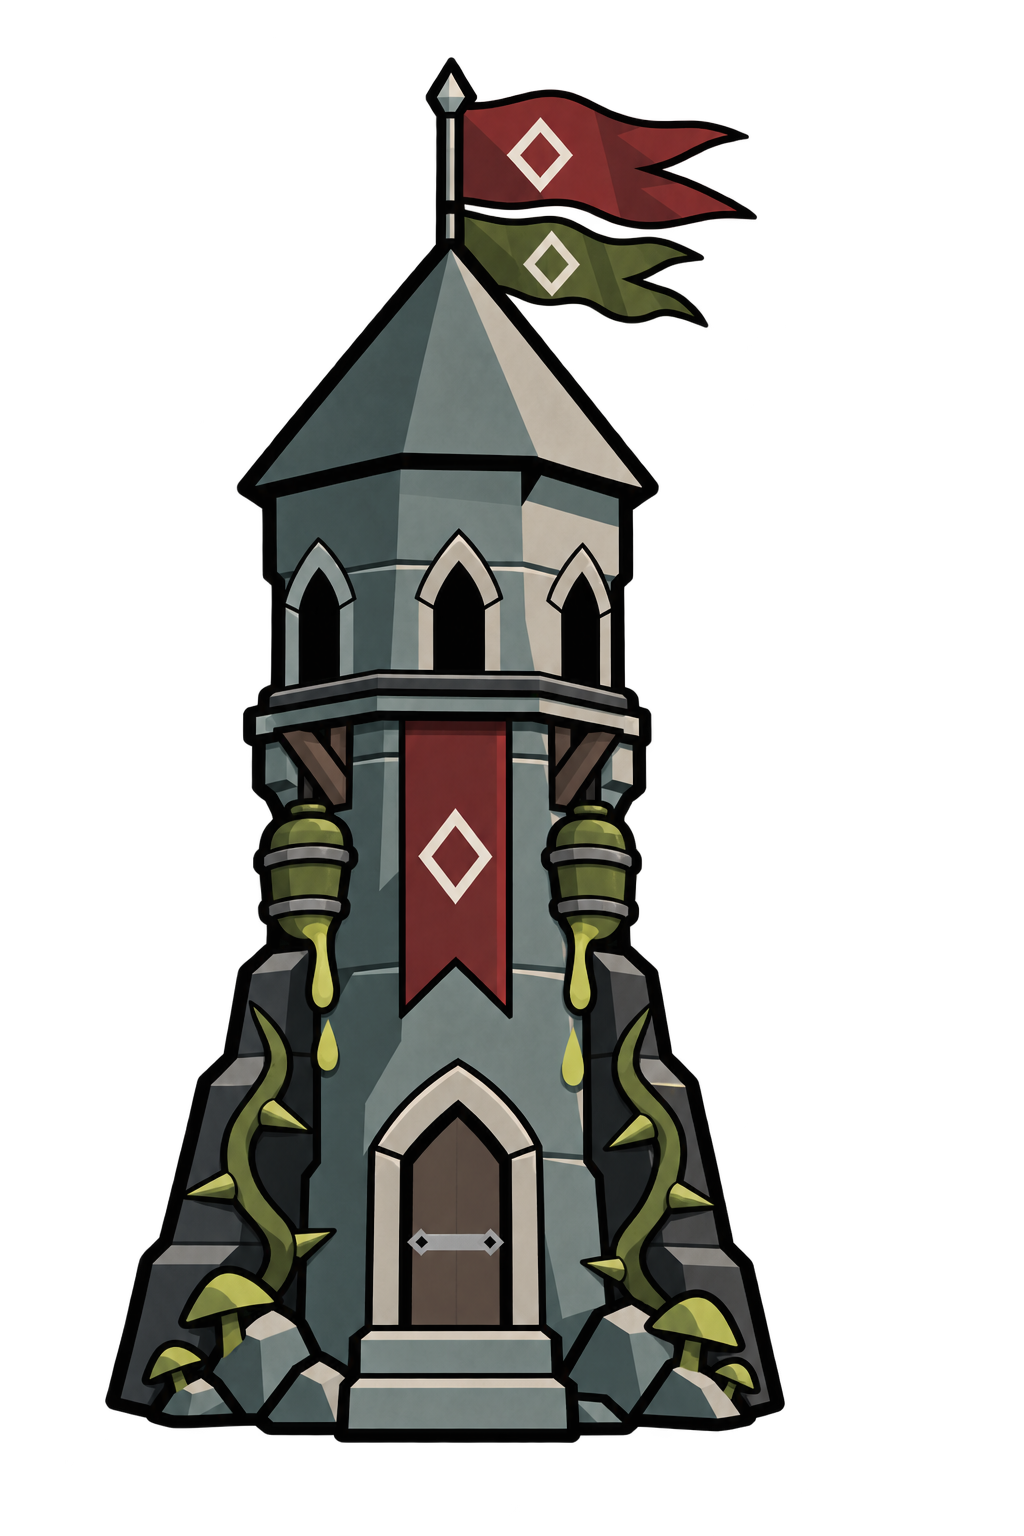
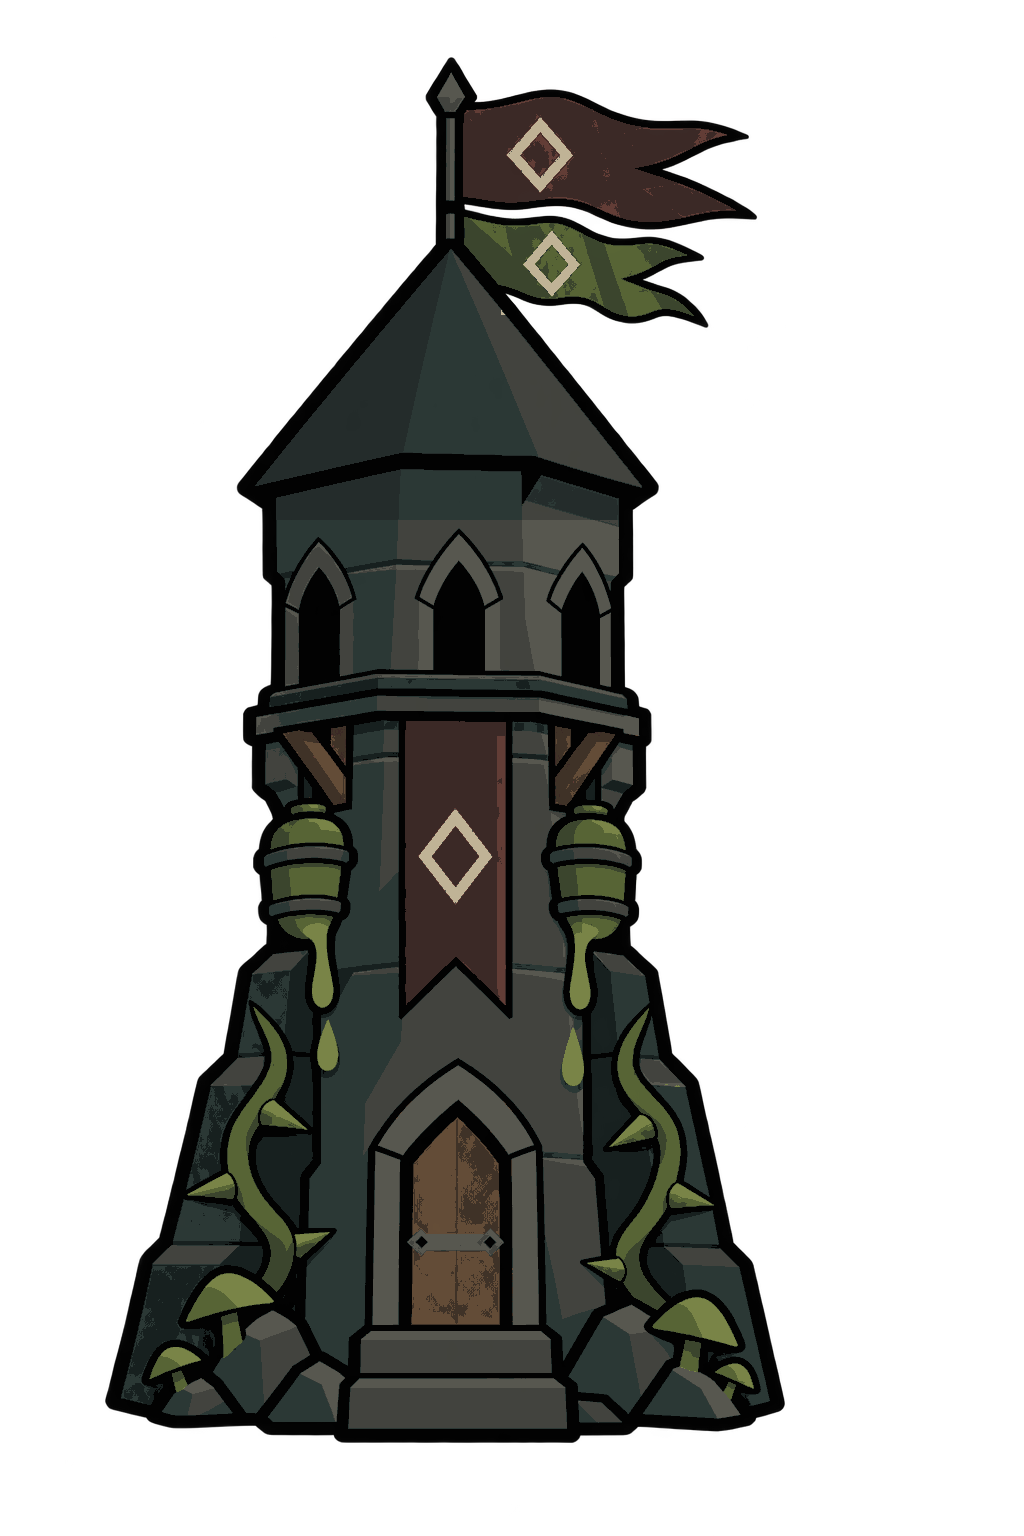
Unify Gloamwatch concepts with a verified dark 16-color palette

Changed region(s): [[0.125, 0.0312, 0.75, 0.9375]]

diff --git a/tools/gloamwatch_palette.py b/tools/gloamwatch_palette.py
@@ -1,0 +1,78 @@
+"""Apply the user-approved fixed palette without resampling tower geometry.
+
+Input must be the pre-palette cumulative concepts, not already processed files.
+Uses material masks to keep architectural highlights out of the bone role.
+"""
+import argparse
+import json
+from pathlib import Path
+
+import numpy as np
+from PIL import Image
+
+HEX = ['000000', '151E1D', '222A29', '293633', '41423C', '56564E',
+       '3D3025', '624B35', '392724', '613B34', 'BFB295', '435862',
+       '758F9E', '39442B', '566333', '788346']
+PALETTE = np.array([[int(h[i:i+2], 16) for i in (0, 2, 4)] for h in HEX], dtype=np.uint8)
+NAMES = ['level-1', 'level-2', 'level-3', 'tier-4-frost', 'tier-4-poison']
+
+
+def convert(source, destination):
+    report = {}
+    union = set()
+    destination.mkdir(parents=True, exist_ok=True)
+    for name in NAMES:
+        src = np.array(Image.open(source / f'{name}.png').convert('RGBA'))
+        rgb = src[..., :3].astype(float)
+        r, g, b = rgb.transpose(2, 0, 1)
+        value = rgb.max(axis=2)
+        yy, xx = np.indices(value.shape)
+        # Normalize structure through the same dark value mapping for every tier.
+        light = rgb @ np.array([0.2126, 0.7152, 0.0722])
+        indices = np.select([light < 24, light < 57, light < 100,
+                             light < 150, light < 205], [0, 1, 3, 4, 5], default=5)
+        roof = (yy < 520) & (yy > 240)
+        indices[roof & (light >= 24) & (light < 105)] = 2
+        indices[roof & (light >= 105) & (light < 170)] = 3
+        indices[roof & (light >= 170)] = 4
+        # Timber occurs in the doorway and under the gallery, not stone frames.
+        timber_zone = ((yy > 1100) & (xx > 395) & (xx < 515)) | ((yy > 700) & (yy < 850))
+        timber = timber_zone & (r > g * 1.09) & (g > b * 1.08) & (value > 32)
+        indices[timber] = np.where(light[timber] < 75, 6, 7)
+        red = (r > g * 1.3) & (r > b * 1.3) & (value > 30)
+        indices[red] = np.where(light[red] < 65, 8, 9)
+        if name != 'level-1':
+            cloth_zone = ((yy < 315) & (xx > 500) & (xx < 740))
+            if name != 'level-2':
+                cloth_zone |= (yy > 750) & (yy < 1040) & (xx > 400) & (xx < 510)
+            insignia = cloth_zone & (light > 155) & (r >= g) & (g > b * 1.04)
+            indices[insignia] = 10
+        if name == 'tier-4-frost':
+            ice = (b > r * 1.10) & (b > g * 1.015) & (light > 45)
+            indices[ice] = np.where(light[ice] < 150, 11, 12)
+        if name == 'tier-4-poison':
+            poison = (g > b * 1.30) & (g > r * 0.85) & (r < g * 1.15) & (value > 30)
+            indices[poison] = np.select([light[poison] < 85, light[poison] < 140], [13, 14], default=15)
+        indices[light < 20] = 0
+        out = np.dstack((PALETTE[indices], src[..., 3]))
+        out[src[..., 3] == 0, :3] = 0
+        Image.fromarray(out.astype(np.uint8)).save(destination / f'{name}.png')
+        colors = {tuple(c) for c in out[..., :3][out[..., 3] > 0]}
+        assert colors <= {tuple(c) for c in PALETTE}
+        assert np.array_equal(src[..., 3], out[..., 3])
+        union |= colors
+        report[name] = {'size': [src.shape[1], src.shape[0]], 'visible_rgb_colors': len(colors),
+                        'alpha_unchanged': True, 'resampled': False,
+                        'colors': sorted('#' + ''.join(f'{int(v):02X}' for v in c) for c in colors)}
+    report['family_color_count'] = len(union)
+    report['allowed_color_count'] = len(PALETTE)
+    (destination / 'palette-verification.json').write_text(json.dumps(report, indent=2) + '\n')
+    print(json.dumps(report, indent=2))
+
+
+if __name__ == '__main__':
+    parser = argparse.ArgumentParser(description=__doc__)
+    parser.add_argument('source', type=Path)
+    parser.add_argument('destination', type=Path)
+    args = parser.parse_args()
+    convert(args.source, args.destination)

diff --git a/docs/concepts/gloamwatch/PALETTE.md b/docs/concepts/gloamwatch/PALETTE.md
@@ -1,0 +1,50 @@
+# Gloamwatch master palette
+
+One 16-color design palette for all five towers. Eleven common material colors,
+two frost accents, and three poison accents. Not every tower uses every color.
+Transparency is not a seventeenth material color.
+
+| Role | Hex |
+| --- | --- |
+| Ink, contours and black windows | `#000000` |
+| Deep stone shadow | `#151E1D` |
+| Roof | `#222A29` |
+| Stone base | `#293633` |
+| Stone light and dull iron | `#41423C` |
+| Small worn stone edges | `#56564E` |
+| Timber shadow | `#3D3025` |
+| Timber light | `#624B35` |
+| Cloth shadow | `#392724` |
+| Oxblood cloth | `#613B34` |
+| Small diamond insignia | `#BFB295` |
+| Frost shadow | `#435862` |
+| Frost light | `#758F9E` |
+| Poison shadow | `#39442B` |
+| Poison base | `#566333` |
+| Poison light | `#788346` |
+
+## Fixed material assignments
+
+Use identical stone colors at every tier. Most masonry is Stone base with Deep
+stone shadow and Stone light planes. Small worn edges may use `#56564E`; broad
+walls, roofs, window frames, door surrounds, stairs and rocks must never become
+pale beige. Bone belongs only on small insignia, not architectural highlights.
+
+Roof uses Roof, Deep stone shadow and Stone base. Wood uses the two timber
+colors. Every oxblood top flag and hanging banner uses the same two cloth colors.
+Frost and poison use their respective accent colors without illuminating or
+recoloring adjacent masonry. Upgrades add structure, never brighter stone.
+
+Keep black windows, no visible occupants or projectiles, the simple front view,
+compact crumbly foundations, cumulative construction and established flag
+sequence. This palette applies to the Gloamwatch concept family and does not
+recolor unrelated game assets or change the app's shared UI tokens.
+
+## Reproduction and verification
+
+Run `python tools/gloamwatch_palette.py SOURCE_DIRECTORY OUTPUT_DIRECTORY` with
+Pillow and NumPy. Source files must be the pre-palette cumulative PNGs from commit
+`956745537dda81dd1e0cfbfc21aecec3c40817c5`, not the already converted outputs.
+The converter checks every visible RGB value against this palette and compares
+the entire alpha channel byte for byte. It performs no resizing or resampling.
+The verification JSON records the subset used by each tower and the family union.

diff --git a/docs/concepts/gloamwatch/README.md b/docs/concepts/gloamwatch/README.md
@@ -47,6 +47,13 @@ stone watchtower with black windows and a clear doorway.
 
 ## Pickard style authority
 
+The [16-color master palette](PALETTE.md) fixes material colors across all five
+stages. Eleven shared colors cover structure, wood, cloth and insignia; two
+frost and three poison accents complete the family. Upgrades must not brighten
+the stone. Pale bone is reserved for small insignia rather than roof, door or
+window framing. The palette specification supersedes color drift in earlier
+generated concepts and prompts.
+
 The final pass uses [Pickard's main-menu artwork](../../../assets/ui/pickard-menu-background.png)
 directly as an image reference. Match its dark foreground rocks, iron and ruins:
 charcoal-green and soot foundations, broad angular matte planes, heavy black
@@ -75,9 +82,18 @@ occlusion and portrait layouts at 360x640, 390x844 and 540x960 when integrating.
 
 The cumulative images were visually compared for shared shaft, door, window,
 roof and ground placement, along with the flag sequence. They remain generated
-concepts: small registration and color variations remain, especially in the
+concepts: small registration variations remain, especially in the
 poison branch. Runtime integration must use a single immutable base layer with
 separate upgrade parts to guarantee pixel-identical placement and dimensions.
+
+The final color-only revision uses the user-approved deterministic conversion in
+`tools/gloamwatch_palette.py`, applied to the cumulative PNGs from commit
+`956745537dda81dd1e0cfbfc21aecec3c40817c5`. It preserves each original alpha channel,
+canvas and pixel position without resampling. All nontransparent pixels use a
+subset of the fixed palette; the family uses exactly 16 RGB colors in total.
+See [palette-verification.json](palette-verification.json) for per-image results.
+Alpha blending against a background can produce intermediate displayed colors.
+The exploratory AI color edits were not selected because they shifted geometry.
 
 Built-in image generation revised each prior tower's architecture, then used
 that revision plus the Pickard image for the final dark, projectile-free pass.
